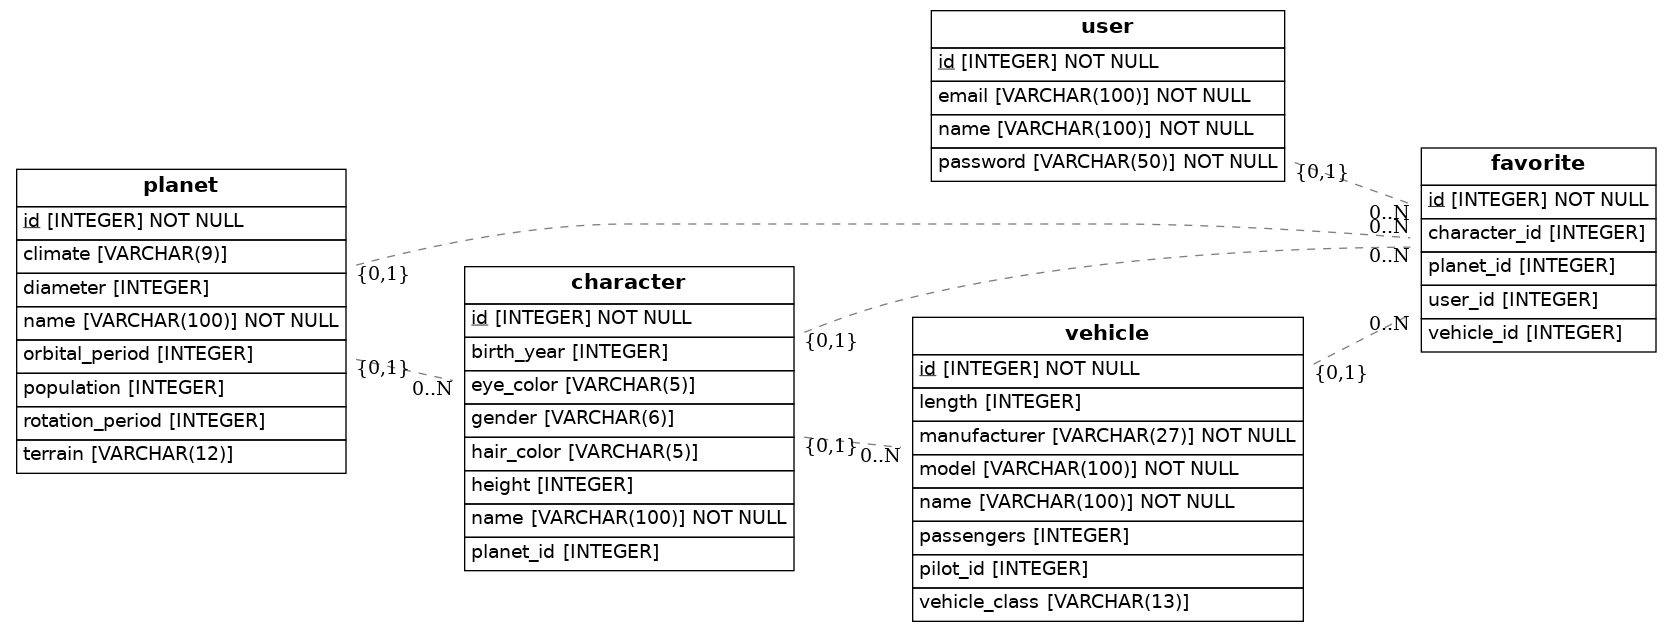
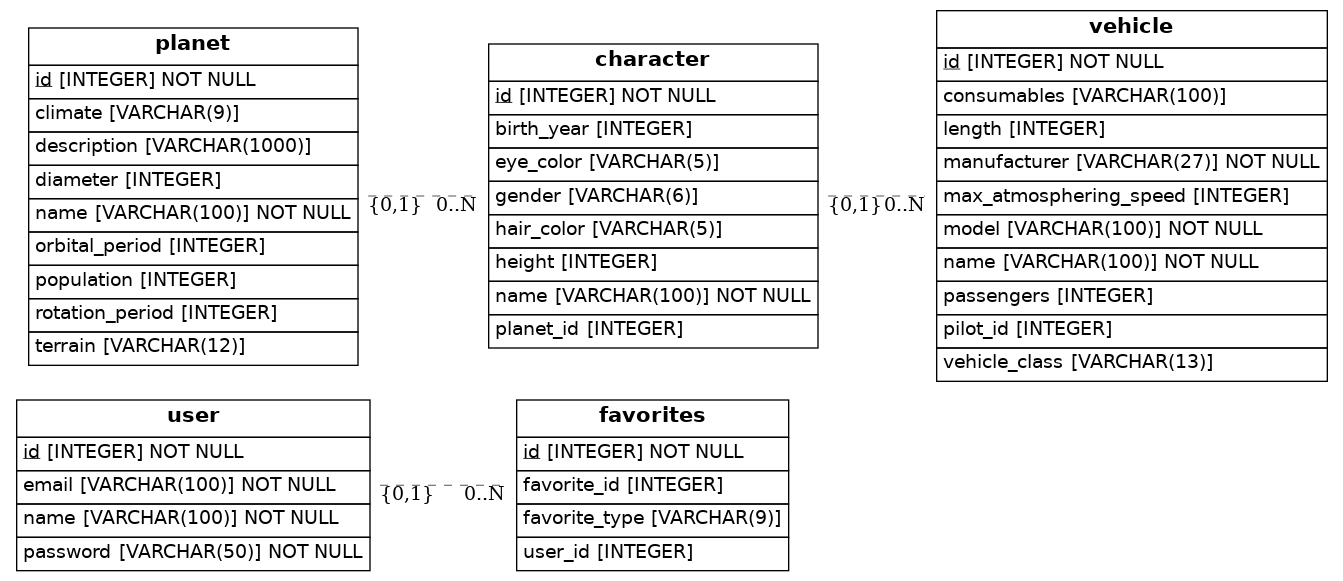
Relaciones cambiadas

Changed region(s): [[0.0, 0.0, 1.0, 0.9914]]

diff --git a/src/models.py b/src/models.py
@@ -14,7 +14,7 @@ class User(Base):
     name = Column(String(100), nullable=False)
     password = Column(String(50), nullable=False)
     email = Column(String(100), nullable=False)
-    favorites = relationship("Favorite")
+    favorites = relationship("Favorite", backref="user", lazy=True)
 
 class Character(Base):
     __tablename__ = 'character'
@@ -26,7 +26,7 @@ class Character(Base):
     hair_color = Column(Enum('brown', 'blond', 'red', 'black', 'n/a'))
     eye_color = Column(Enum('brown', 'green', 'blue', 'gold', 'n/a'))
     planet_id = Column(Integer, ForeignKey('planet.id'))
-    planet= relationship("Planet")
+    Vehicle= relationship("Vehicle", backref='character', lazy=True)
 
 class Planet(Base):
     __tablename__ = 'planet'
@@ -38,7 +38,8 @@ class Planet(Base):
     orbital_period = Column(Integer)
     rotation_period = Column(Integer)
     diameter = Column(Integer)
-    characters = relationship("Character")
+    description= Column(String(1000))
+    characters = relationship("Character", backref='planet', lazy=True)
 
 class Vehicle(Base):
     __tablename__ = 'vehicle'
@@ -49,20 +50,16 @@ class Vehicle(Base):
     manufacturer= Column(Enum('Incom Corporation', 'Corellia Mining Corporation'), nullable=False)
     length= Column(Integer)
     passengers= Column(Integer)
+    max_atmosphering_speed= Column(Integer)
+    consumables= Column(String(100))
     pilot_id= Column(Integer, ForeignKey('character.id'))
-    character= relationship("Character")
 
 class Favorites(Base):
-    __tablename__ = 'favorite'
+    __tablename__ = 'favorites'
     id = Column(Integer, primary_key=True)
     user_id = Column(Integer, ForeignKey('user.id'))
-    character_id = Column(Integer, ForeignKey('character.id'))
-    planet_id = Column(Integer, ForeignKey('planet.id'))
-    vehicle_id = Column(Integer, ForeignKey('vehicle.id'))
-    user= relationship("User")
-    character= relationship("Character")
-    planet= relationship("Planet")
-    vehicle= relationship("Vehicle")
+    favorite_type = Column(Enum('character', 'planet', 'vehicle'))
+    favorite_id = Column(Integer)
 
 
 ## Draw from SQLAlchemy base
